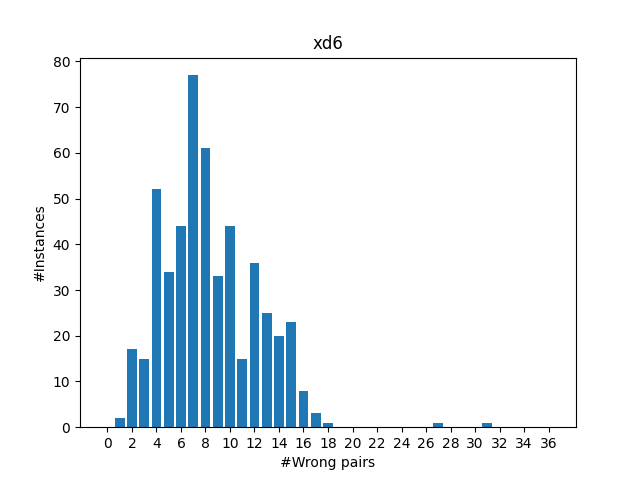
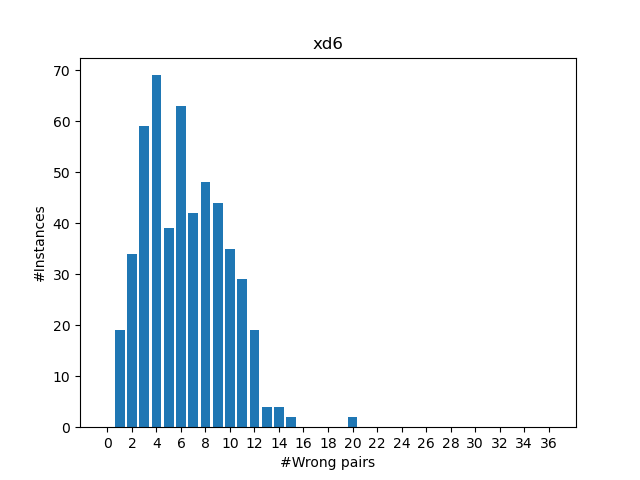
update

diff --git a/comRank.py b/comRank.py
@@ -46,8 +46,7 @@ if __name__ == '__main__':
             l_wrong_pairs = [0] * int((m * (m - 1)) / 2 + 1)
             for k in range(n):
                 l_wrong = sum((b_score[k, i] < b_score[k, j] and l_score[k, i] >= l_score[k, j])
-                              or (b_score[k, i] == b_score[k, j] and l_score[k, i] != l_score[k, j])
-                              or (b_score[k, i] > b_score[k, j] and l_score[k, i] <= l_score[k, j])
+                              or (b_score[k, i] >= b_score[k, j] and l_score[k, i] < l_score[k, j])
                               for i in range(m)
                               for j in range(i + 1, m))
                 l_wrong_pairs[l_wrong] += 1
